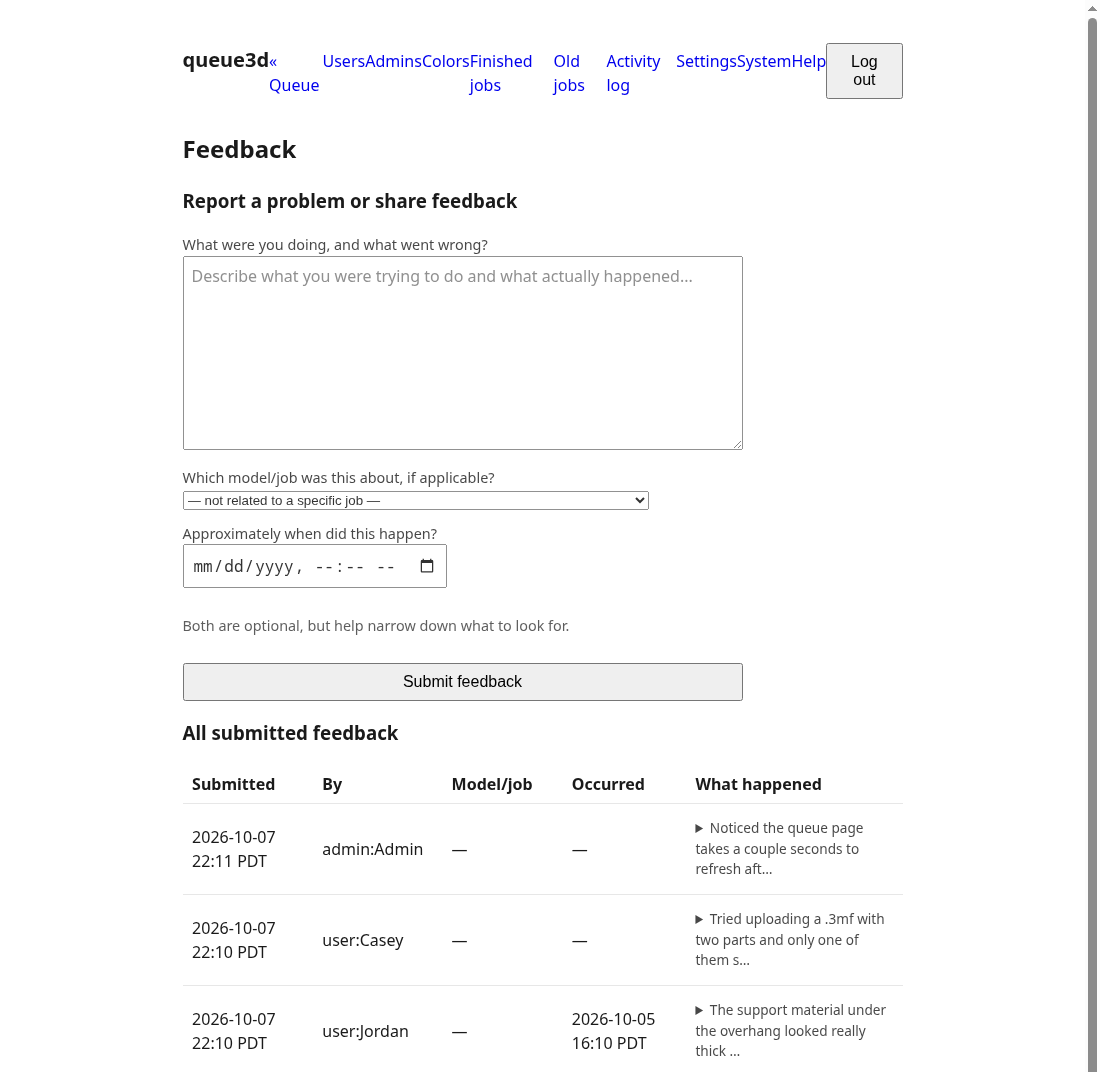
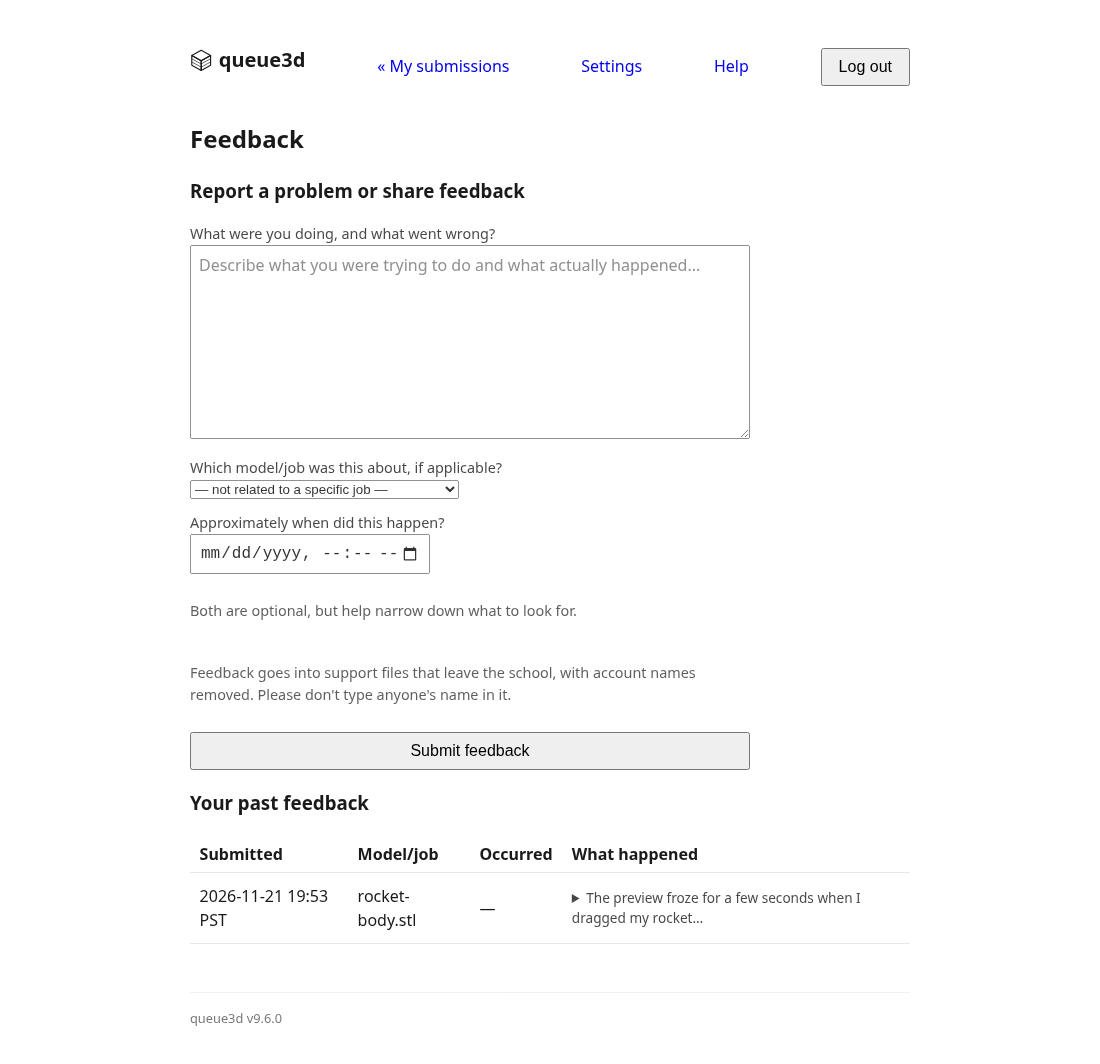
README: refresh screenshots and cover the 9.6.0 features
New screenshots for the user and admin dashboards, the edit page, users
and feedback pages, plus new ones for Snap to surface, the size
reference (quarter and bill) and printing on a raft. The features list
now covers slicing one at a time, colour-coded print times, draft
delete, fix and resubmit, cancel print, zip models waiting for a
choice, enlarging auto-resize, moving the model, failure-based rotation
retries, the support bundle's name codes and the deploy test slice.

Two small fixes the screenshots showed up: the Basic theme's admin nav
now wraps onto a second row instead of breaking links mid-word, and the
snap and move hints say the model is below them, not above.

diff --git a/app/templates/base.html b/app/templates/base.html
@@ -413,6 +413,12 @@
     }
     header { display: flex; justify-content: space-between; align-items: baseline; margin-bottom: 2rem; }
     header a { text-decoration: none; }
+    /* Basic keeps the nav as a top row; the admin pages have a dozen
+       links, which squeezed into the 720px column until multi-word ones
+       ("Finished jobs") broke mid-link and overlapped their neighbours.
+       Wrapped onto a second row instead, each link kept whole. */
+    [data-theme="default"] header { flex-wrap: wrap; column-gap: 0.9rem; row-gap: 0.3rem; }
+    [data-theme="default"] header a { white-space: nowrap; }
     h1 { font-size: 1.25rem; }
     /* The app logo + "queue3d" title as one unit (see the <svg> markup's
        own comment below for why the logo itself is inline rather than a

diff --git a/app/templates/job_edit.html b/app/templates/job_edit.html
@@ -96,11 +96,11 @@
     be).
   </p>
     <p class="muted" id="snap-hint" hidden>
-      Point at the model above: the highlighted face is the one that will
+      Point at the model below: the highlighted face is the one that will
       sit on the plate. Click to lay it there.
     </p>
     <p class="muted" id="gizmo-hint" hidden>
-      Drag a handle on the model above. To move it, drag the red or
+      Drag a handle on the model below. To move it, drag the red or
       green arrow, or the square between them.
     </p>
     {# Hidden until the saved size and orientation are applied (see

diff --git a/README.md b/README.md
@@ -15,19 +15,38 @@ Sample data below (names, filenames, queue contents) - not a real
 deployment.
 
 **User view** - uploading a model and tracking submissions through the
-queue:
+queue. Rows are colour-coded by estimated print time; the two models
+from an uploaded zip wait for the user to pick which to slice:
 
-![User dashboard, showing the upload form and a table of submitted jobs in various states](docs/screenshots/user-dashboard.png)
+![User dashboard, showing the upload form, a notice that two models from a zip are waiting to be sliced, and colour-coded rows for sliced, queued, rejected and done jobs](docs/screenshots/user-dashboard.png)
 
-The interactive 3D preview, here showing a model alongside its generated
-support material:
+A model's edit page: the interactive 3D preview with its generated
+support material, the estimate and filament, and the settings, size,
+position and rotation controls:
 
-![3D preview of a model with orange support material rendered underneath its overhangs](docs/screenshots/3d-preview-supports.png)
+![Job edit page, showing a 3D preview of a desk hook with orange support material underneath, the print-time estimate, and the settings, scale and rotation controls](docs/screenshots/3d-preview-supports.png)
 
-**Admin view** - reviewing the queue and approving, rejecting, or releasing
-jobs to the printer:
+**Snap to surface** lights up the face the model will be laid on - bright
+where it will touch the plate, darker where that side is set back:
 
-![Admin dashboard, showing the queue with per-job approve/reject/release actions](docs/screenshots/admin-dashboard.png)
+![A wrench standing on its edge, its broad side highlighted amber: bright on the thick head, darker on the thinner handle](docs/screenshots/snap-to-surface.png)
+
+**Size reference** - a quarter or a dollar bill, to scale, beside the
+model, whichever is closer to its size:
+
+![A small chess pawn next to a quarter on the build plate](docs/screenshots/size-reference-quarter.png)
+
+![The wrench lying flat next to a dollar bill](docs/screenshots/size-reference-bill.png)
+
+**Print on a raft** - a round-bottomed model lifted off the plate on a
+removable base, with supports under its curve:
+
+![A round ornament sitting on an orange raft and supports](docs/screenshots/raft.png)
+
+**Admin view** - reviewing the queue and approving, rejecting, releasing
+or cancelling jobs on the printer:
+
+![Admin dashboard, showing the printer status and the colour-coded queue: a printing job with Mark done, Mark failed and Cancel print, then approved and queued jobs](docs/screenshots/admin-dashboard.png)
 
 Managing user accounts:
 
@@ -100,15 +119,27 @@ for the full design rationale behind each.
   the file is being received, and a "slicing…" indicator on the dashboard
   (self-updating, no page reload) while it's converted server-side -
   slicing runs in the background rather than leaving the page hanging for
-  however long that takes.
+  however long that takes. Models slice one at a time, in the order
+  they were started, and the dashboard shows each one's place in line
+  and, during a slice, what the slicer is trying. The edit page's 3D
+  preview stays still while a re-slice runs and refreshes once when it
+  finishes or fails.
 - **Slicing and submitting are separate actions** - uploading slices a
   model into a private draft (never visible to admins or counted in the
   queue) that can be re-sliced in place with different support settings,
   as many times as wanted, before deciding to submit it to the shared
-  queue. A draft nobody ever submits expires automatically after an
+  queue. Any draft can be deleted, unless it's slicing at that moment.
+  A draft nobody ever submits expires automatically after an
   admin-configurable number of days (`/admin/settings`).
 - **Live duration estimate and queue position** shown to the submitter as
   soon as slicing finishes.
+- **Colour-coded print times** - every queue row, on the user dashboard,
+  the admin queue and the old jobs page, is tinted by its estimated
+  print time: green under 2 hours, yellow 2-3 hours ("ask first"), red
+  over 3 hours ("too long"), with a legend above each table. The limits
+  are admin settings (`/admin/settings`). The edit page shows the same
+  coloured estimate next to the filament amount, so a student can scale
+  a model down before submitting it.
 - **Interactive 3D preview** - rotate and zoom a model on the real build
   plate before submitting (entirely in the browser, no upload needed just
   to look at it), and again afterward on the job's own page (for the
@@ -125,7 +156,11 @@ for the full design rationale behind each.
 - **One shared queue** - submissions land directly in it; there's no
   separate pre-review step before something counts as queued.
 - **Admin review** - approve, or reject with a required note explaining
-  why, before anything reaches the printer.
+  why, before anything reaches the printer. The reject and "Mark failed"
+  boxes suggest common fixes ("Turn on supports and resubmit.", "Scale
+  it down and resubmit."), and the submitter gets a **Fix and
+  resubmit** button that opens an editable copy showing the admin's
+  reason under "What to change".
 - **Browse finished jobs and a full audit log** - a rejected/done/failed/
   expired job leaves the live queue view but stays reachable
   (`/admin/jobs/finished`). A global activity log (`/admin/log`) shows
@@ -147,6 +182,12 @@ for the full design rationale behind each.
   meant only the first release after any pairing ever actually worked.
 - **One job on the printer at a time**, enforced - releasing a second job
   while one is already printing is blocked with a clear error.
+- **Cancel a print from the app** - a printing job has a **Cancel
+  print** button (with a reason and a confirmation) that stops the print
+  on the printer and records the job as failed, with the reason shown to
+  the submitter. A job marked done or failed that's still printing gets
+  **Stop it on the printer**. Tested against `simulator/`; not yet run
+  against the real printer.
 - **Printer status on the admin dashboard** - rather than only finding
   out the printer needs re-pairing when a release actually fails, the
   dashboard shows its connection state plainly, and a "Pair printer"
@@ -364,8 +405,13 @@ for the full design rationale behind each.
   re-slicing wait at all.
 - **Upload `.obj` or `.3mf` files directly, and `.zip` files of one or
   more `.stl`/`.obj`/`.3mf` models** (a common Thingiverse shape -
-  several separate parts plus a README/photo that's just ignored). Each
-  model in a zip
+  several separate parts plus a README/photo that's just ignored). A zip
+  with several models isn't sliced straight away: each waits on the
+  dashboard for the user to check it in 3D, then **Slice** it,
+  **Delete** it, or **Slice all** - a zip often holds the same model
+  twice, or a single part next to the whole thing, and slicing every
+  file one at a time on the Pi took minutes nobody needed. A zip with
+  one model slices right away. Each model in a zip
   becomes its own separate job/draft, up to `MAX_ZIP_MODEL_FILES` (25) -
   stated right on the upload form, not just in this README - rather
   than a combined-plate print - the right design since this app's whole
@@ -391,8 +437,12 @@ for the full design rationale behind each.
 - **Resize and auto-fit on the job edit page** - a scale control (always
   uniform - proportions can never distort) with a live, before-you-commit
   3D preview as you change it, and a one-click "Auto-resize to fit build
-  plate" button for a model that's too large, computing exactly the
-  shrink needed rather than making the user guess a percentage by hand.
+  plate" button that finds the largest size that fits - shrinking a
+  model that's too large or enlarging one that's tiny - rather than
+  making the user guess a percentage by hand. Scale goes up to 10000%,
+  and a model under 5 mm gets a note with ×10 (centimetres) and ×25.4
+  (inches) buttons, since it was almost certainly exported in the wrong
+  units.
   Full editing, not just color, is reachable from a queued/approved
   job's own dashboard row too, not just a draft's - changing anything on
   one re-slices it as a fresh submission (a new `queued_at`, same as a
@@ -408,6 +458,13 @@ for the full design rationale behind each.
   of filling the frame on its own, and a model that's actually too
   big for the bed visibly overflows that view instead of just
   re-filling the frame to look "normal-sized" like every other model.
+- **Moving the model on the plate** - a model is placed by its balance
+  point, which can leave a lopsided one (a wrench with a heavy head)
+  hanging off the edge even when it's shorter than the plate. **Center
+  on plate** centres it by its outline, and **Move (drag)** slides it
+  anywhere on the plate. Slicing centres a model nobody has moved by
+  itself when that makes it fit, so most uploads like that slice on the
+  first try. The position is saved with the job.
 - **Automatic mesh repair** - every upload gets checked for a watertight,
   correctly-oriented mesh before it ever reaches the slicer (which has
   no repair flag of its own), and repaired automatically if it isn't -
@@ -425,6 +482,9 @@ for the full design rationale behind each.
   turns, and standing the model on each of its other faces) before
   giving up, since real models have repeatedly turned out to need
   nothing more than a different rotation to slice successfully at all.
+  Which rotations are tried depends on the failure (none for a setup
+  error, turns on the plate for "too big", the model's other sides
+  otherwise), and the retries stop after 3 minutes in total.
   If one of those works, the job's rotation is updated to match and a
   clear note says so (not silently applied without explanation); if
   none do, the job fails as before, with a note that this was already
@@ -435,8 +495,12 @@ for the full design rationale behind each.
   whether a different one would actually print better.
 - **Rotate and snap to surface** - free rotation on any axis (three
   degree fields, live preview as you type), plus a "Snap to surface"
-  button: click it, then click any face on the model, and it reorients
-  to stand on that face - useful both for fit (a diagonal rotation can
+  button: click it, then point at the model - the side it will lie on
+  lights up, brightest where it will touch the plate - and click to lay
+  it on that side. It picks a whole flat face, so a click on a bevel or
+  into a hole still picks the side it's on, and if the model would hang
+  off the plate lying that way it's also turned and centred to fit.
+  Useful both for fit (a diagonal rotation can
   let an oversized model fit the plate) and for print success. Fixes
   a real slicing failure that resizing alone never
   could: a model whose asymmetric shape failed the printer's own
@@ -451,6 +515,17 @@ for the full design rationale behind each.
   alongside the number fields and
   snap-to-surface - three different ways to reach the same rotate/scale
   values, kept in sync with each other.
+- **Size reference** - a button in the corner of every 3D preview puts a
+  US quarter or a dollar bill, to scale, right beside the model -
+  whichever is closer to its size - so it's easy to see how big the
+  print really is. It zooms and turns with the model and is never
+  printed.
+- **Print on a raft** - for a model with no flat bottom (a ball, a
+  boat's hull), the edit page's **Print on a raft** prints a few
+  removable layers under it, a little wider than the model, so it sits
+  on a steady base instead of balancing on a line or a point. With
+  supports on, they hold up the curved underside. The preview shows the
+  raft and the model sitting on it.
 - **Automated backups** - the database and finished-job archive back up
   automatically on a schedule, rotating between two targets, each
   keeping about three weeks of dated, auto-pruned snapshots rather than
@@ -468,10 +543,14 @@ for the full design rationale behind each.
   page's own nav.
 - **Downloadable support bundle** - an admin can generate a `.tar.gz`
   on demand (a safe copy of the database, the full activity log, every
-  submitted feedback report, and every model that ever hit a slicing
-  error or was referenced by a feedback report) for offline bugfixing at
-  this app's zero-internet-access deployment, with no need for remote
-  access to the device itself.
+  submitted feedback report, every model that ever hit a slicing error
+  or was referenced by a feedback report, and the service's own journal)
+  for offline bugfixing at this app's zero-internet-access deployment,
+  with no need for remote access to the device itself. No names leave
+  the school in it: every account and model filename is replaced with a
+  stable code (keyed by a secret that stays on the Pi), names are
+  scrubbed from free text, and PIN/password hashes are blanked. An admin
+  can look a code up on site (Admin > Support bundle codes).
 - **Self-service help pages** - a shared `/help` page (no login required)
   covering registration/login, submitting a job, job statuses,
   editing/restoring/reprinting, and account settings, linked from every
@@ -491,7 +570,10 @@ for the full design rationale behind each.
   storage setup with its own systemd timers, the printer's own address
   as an admin-configurable setting (stored in the database, so it
   survives every future redeploy rather than needing to be hardcoded or
-  re-entered), and the downloadable admin support bundle. Full account
+  re-entered), and the downloadable admin support bundle. Every deploy
+  runs a real test slice on the Pi, offers (never forces) a printer
+  connection check, and ends with a large SUCCESS or FAIL that says
+  which versions it went from and to, or what went wrong. Full account
   of all of it in `deploy/README.md`.
 - **App version number** shown as a footer on every page, read from
   `app/VERSION` at startup - bump that file to change what's shown, no code
